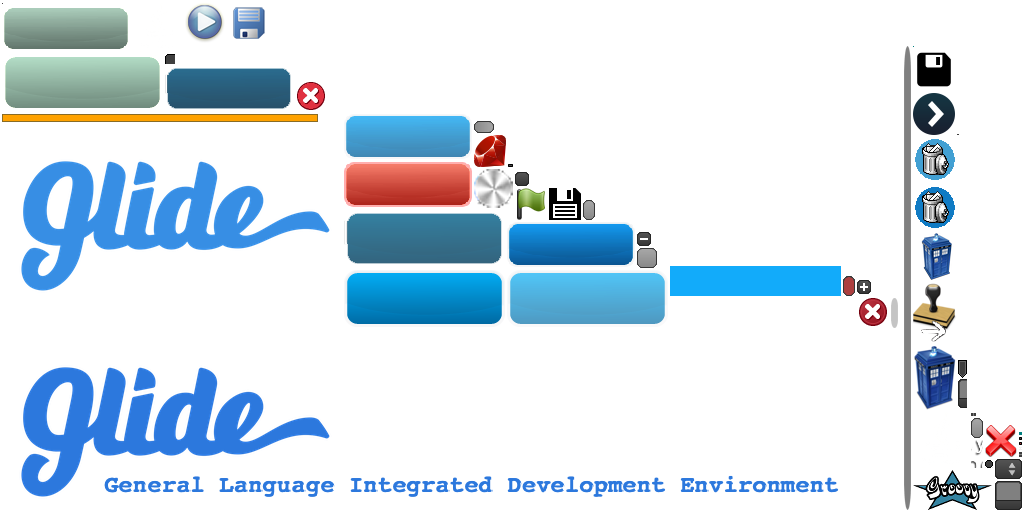
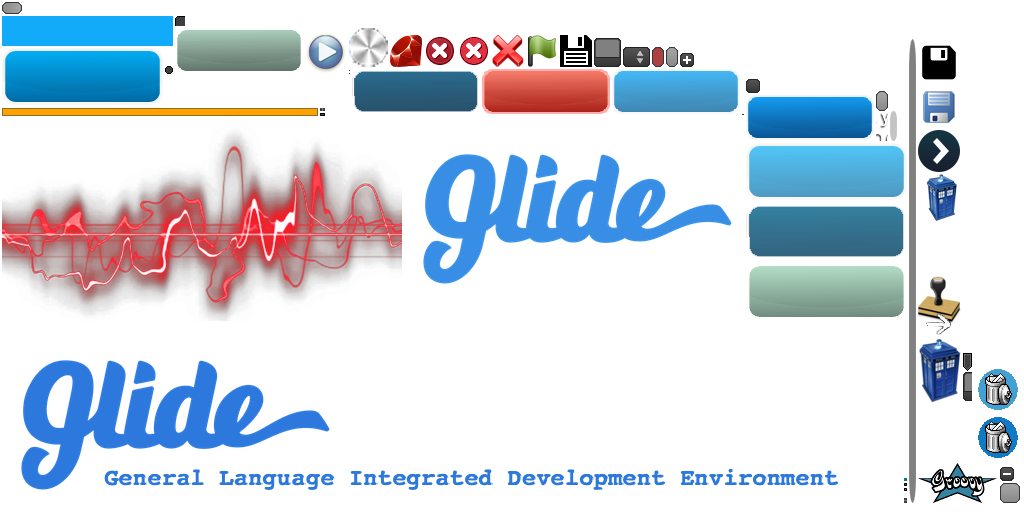
Add sound graphic

diff --git a/core/src/com/bigcustard/scene2dplus/sound/SoundControls.java b/core/src/com/bigcustard/scene2dplus/sound/SoundControls.java
@@ -41,19 +41,19 @@ public class SoundControls {
 
     void addTo(Table table, int width, Skin skin) {
         table.row();
-        Actor sound = getSoundControl(width);
-        table.add(sound).width(sound.getWidth()).height(sound.getHeight()).padTop(20);
+        Actor sound = getSoundControl(width, skin);
+        table.add(sound).width(sound.getWidth()).height(sound.getHeight()).padTop(20).padBottom(10);
         table.row();
         table.add(nameField).width(width);
     }
 
-    private Actor getSoundControl(float width) {
+    private Actor getSoundControl(float width, Skin skin) {
         WidgetGroup group = new WidgetGroup();
-//        Sound uiSound = SoundUtils.asSound(sound.file());
-//        uiSound.setFillParent(true);
-//        group.addActor(uiSound);
-//        group.setHeight(uiSound.getHeight() * width / uiSound.getWidth());
-//        group.setWidth(width);
+        Image uiSound = new Image(skin, "sound");
+        uiSound.setFillParent(true);
+        group.addActor(uiSound);
+        group.setHeight(uiSound.getHeight() * width / uiSound.getWidth());
+        group.setWidth(width);
 
         deleteButton.setPosition(width - 34, group.getHeight() - 34);
         group.addActor(deleteButton);
